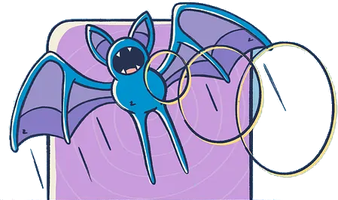
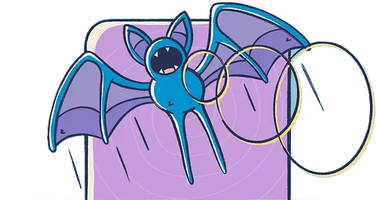
Header tweaks: Upload back on Matches, Zubat centred on its label, simpler Snorlax
Claude-Session: https://claude.ai/code/session_017YS56UHaZ515ZdSsW1Lcud

diff --git a/src/app/globals.css b/src/app/globals.css
@@ -25,14 +25,13 @@ h2 { font-size: 1.15rem; margin: 28px 0 10px; }
 .site-nav { display: flex; gap: clamp(12px, 3vw, 44px); align-items: flex-end; }
 .nav-item { position: relative; display: block; text-decoration: none; }
 .nav-item button { all: unset; cursor: pointer; display: block; }
-.nav-art { display: block; height: 96px; width: auto; margin-bottom: -2px; transition: transform .2s ease; transform-origin: 50% 100%; }
+.nav-art { display: block; height: 96px; width: auto; transition: transform .2s ease; transform-origin: 50% 100%; }
 .nav-item:hover .nav-art, .nav-item:focus-visible .nav-art { transform: translateY(-4px) rotate(-2deg); }
 .nav-label { position: absolute; top: calc(100% + 10px); left: 50%; transform: translateX(-50%); white-space: nowrap;
   font-family: var(--font-display), system-ui, sans-serif; font-weight: 600; font-size: 1.35rem; text-transform: uppercase;
   letter-spacing: -.01em; line-height: 1; }
 .nav-item.active .nav-label { text-decoration: underline; text-decoration-thickness: 3px; text-underline-offset: 6px; }
 .nav-matches .nav-label { color: #e8604c; }
-.nav-upload .nav-label { color: #d9587a; }
 .nav-decks .nav-label { color: #1f7fb5; }
 .nav-settings .nav-label { color: #e8964a; }
 .nav-logout .nav-label { color: #11806a; }

diff --git a/src/components/SiteNav.tsx b/src/components/SiteNav.tsx
@@ -3,8 +3,7 @@ import Link from 'next/link'
 import { usePathname } from 'next/navigation'
 
 const ITEMS = [
-  { href: '/', label: 'Matches', art: 'matches', match: (p: string) => p === '/' || p.startsWith('/games') },
-  { href: '/upload', label: 'Upload', art: 'upload', match: (p: string) => p.startsWith('/upload') },
+  { href: '/', label: 'Matches', art: 'matches', match: (p: string) => p === '/' || p.startsWith('/games') || p.startsWith('/upload') },
   { href: '/decks', label: 'Decks', art: 'decks', match: (p: string) => p.startsWith('/decks') },
   { href: '/settings', label: 'Settings', art: 'settings', match: (p: string) => p.startsWith('/settings') },
 ]

diff --git a/src/app/page.tsx b/src/app/page.tsx
@@ -1,4 +1,5 @@
 import Link from 'next/link'
+import Icon from '@/components/Icon'
 import { requireUser } from '@/lib/supabase/server'
 import { deckLabel, pct, prettyArch, shortDate } from '@/lib/format'
 import type { Deck } from '@/lib/types'
@@ -74,6 +75,7 @@ export default async function MatchLog({ searchParams }: { searchParams: Promise
             </label>
           )}
           <button className="secondary">Show</button>
+          <Link href="/upload" className="button"><Icon name="import" /> Upload games</Link>
         </form>
       </div>
 
